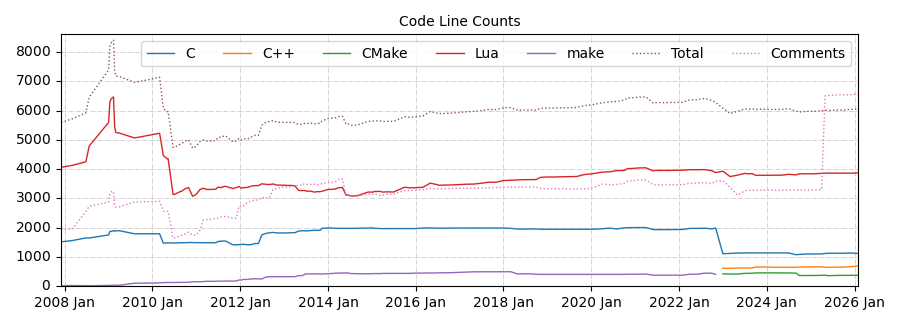
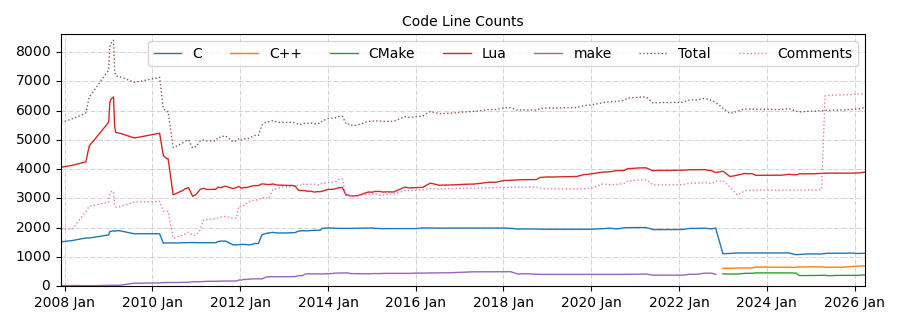
Updated for 13.0 beta.

diff --git a/docs/README.md b/docs/README.md
@@ -58,7 +58,7 @@ and a Qt runtime is distributed with Windows and macOS builds.
 You can download pre-built binaries for various platforms, as well as source code from the
 links below.
 
-Stable Release<br/>(12.9) | Unstable Release<br/>(13.0 alpha 2) | Experimental<br/>nightly build
+Stable Release<br/>(12.9) | Unstable Release<br/>(13.0 beta) | Experimental<br/>nightly build
 -|-|-
 [Windows][stable win] | [Windows][unstable win] | [Windows][nightly win]
 [macOS][stable mac] | [macOS][unstable mac] (Apple Silicon) | [macOS][nightly mac] (Apple Silicon)
@@ -74,12 +74,12 @@ A list of all released versions is [here][all versions] along with their release
 [stable arm]: https://github.com/orbitalquark/textadept/releases/download/textadept_12.9/textadept_12.9.linux.arm.tgz
 [stable modules]: https://github.com/orbitalquark/textadept/releases/download/textadept_12.9/textadept_12.9.modules.zip
 [stable source]: https://github.com/orbitalquark/textadept/archive/refs/tags/textadept_12.9.zip
-[unstable win]: https://github.com/orbitalquark/textadept/releases/download/textadept_13.0_alpha_2/textadept_13.0_alpha_2.win.zip
-[unstable mac]: https://github.com/orbitalquark/textadept/releases/download/textadept_13.0_alpha_2/textadept_13.0_alpha_2.macOS.zip
-[unstable linux]: https://github.com/orbitalquark/textadept/releases/download/textadept_13.0_alpha_2/textadept_13.0_alpha_2.linux.tgz
-[unstable arm]: https://github.com/orbitalquark/textadept/releases/download/textadept_13.0_alpha_2/textadept_13.0_alpha_2.linux.arm.tgz
-[unstable modules]: https://github.com/orbitalquark/textadept/releases/download/textadept_13.0_alpha_2/textadept_13.0_alpha_2.modules.zip
-[unstable source]: https://github.com/orbitalquark/textadept/archive/refs/tags/textadept_13.0_alpha_2.zip
+[unstable win]: https://github.com/orbitalquark/textadept/releases/download/textadept_13.0_beta/textadept_13.0_beta.win.zip
+[unstable mac]: https://github.com/orbitalquark/textadept/releases/download/textadept_13.0_beta/textadept_13.0_beta.macOS.zip
+[unstable linux]: https://github.com/orbitalquark/textadept/releases/download/textadept_13.0_beta/textadept_13.0_beta.linux.tgz
+[unstable arm]: https://github.com/orbitalquark/textadept/releases/download/textadept_13.0_beta/textadept_13.0_beta.linux.arm.tgz
+[unstable modules]: https://github.com/orbitalquark/textadept/releases/download/textadept_13.0_beta/textadept_13.0_beta.modules.zip
+[unstable source]: https://github.com/orbitalquark/textadept/archive/refs/tags/textadept_13.0_beta.zip
 [nightly win]: https://github.com/orbitalquark/textadept/releases/download/textadept_nightly/textadept_nightly.win.zip
 [nightly mac]: https://github.com/orbitalquark/textadept/releases/download/textadept_nightly/textadept_nightly.macOS.zip
 [nightly linux]: https://github.com/orbitalquark/textadept/releases/download/textadept_nightly/textadept_nightly.linux.tgz

diff --git a/docs/api.md b/docs/api.md
@@ -1,4 +1,4 @@
-# Textadept 13.0 nightly API Documentation
+# Textadept 13.0 beta API Documentation
 
 1. [_G](#_G)
 2. [_L](#_L)
@@ -6876,6 +6876,40 @@ a particular character.
 
 Parameters:
 - *c*:  Digit separator character.
+
+<a id="lexer.ignore_extensions"></a>
+### `lexer.ignore_extensions`
+
+Map of file extensions (without the '.' prefix) to strip from filenames during detection to
+`true`.
+
+Fields:
+- `orig`: 
+- `back`: 
+- `old`: 
+- `new`: 
+
+Usage:
+
+```lua
+lexer.ignore_extensions.backup = true
+```
+
+<a id="lexer.ignore_patterns"></a>
+### `lexer.ignore_patterns`
+
+List of filename parts to strip from filenames during detection.
+
+Filename parts are expressed as Lua patterns.
+
+Fields:
+- `~+$`: 
+
+Usage:
+
+```lua
+table.insert(lexer.ignore_patterns, '%.%d+$') -- ignore digit extensions
+```
 
 <a id="lexer.indent_amount"></a>
 ### `lexer.indent_amount`

diff --git a/docs/manual.md b/docs/manual.md
@@ -1,4 +1,4 @@
-# Textadept 13.0 nightly Manual
+# Textadept 13.0 beta Manual
 
 **Contents**
 
